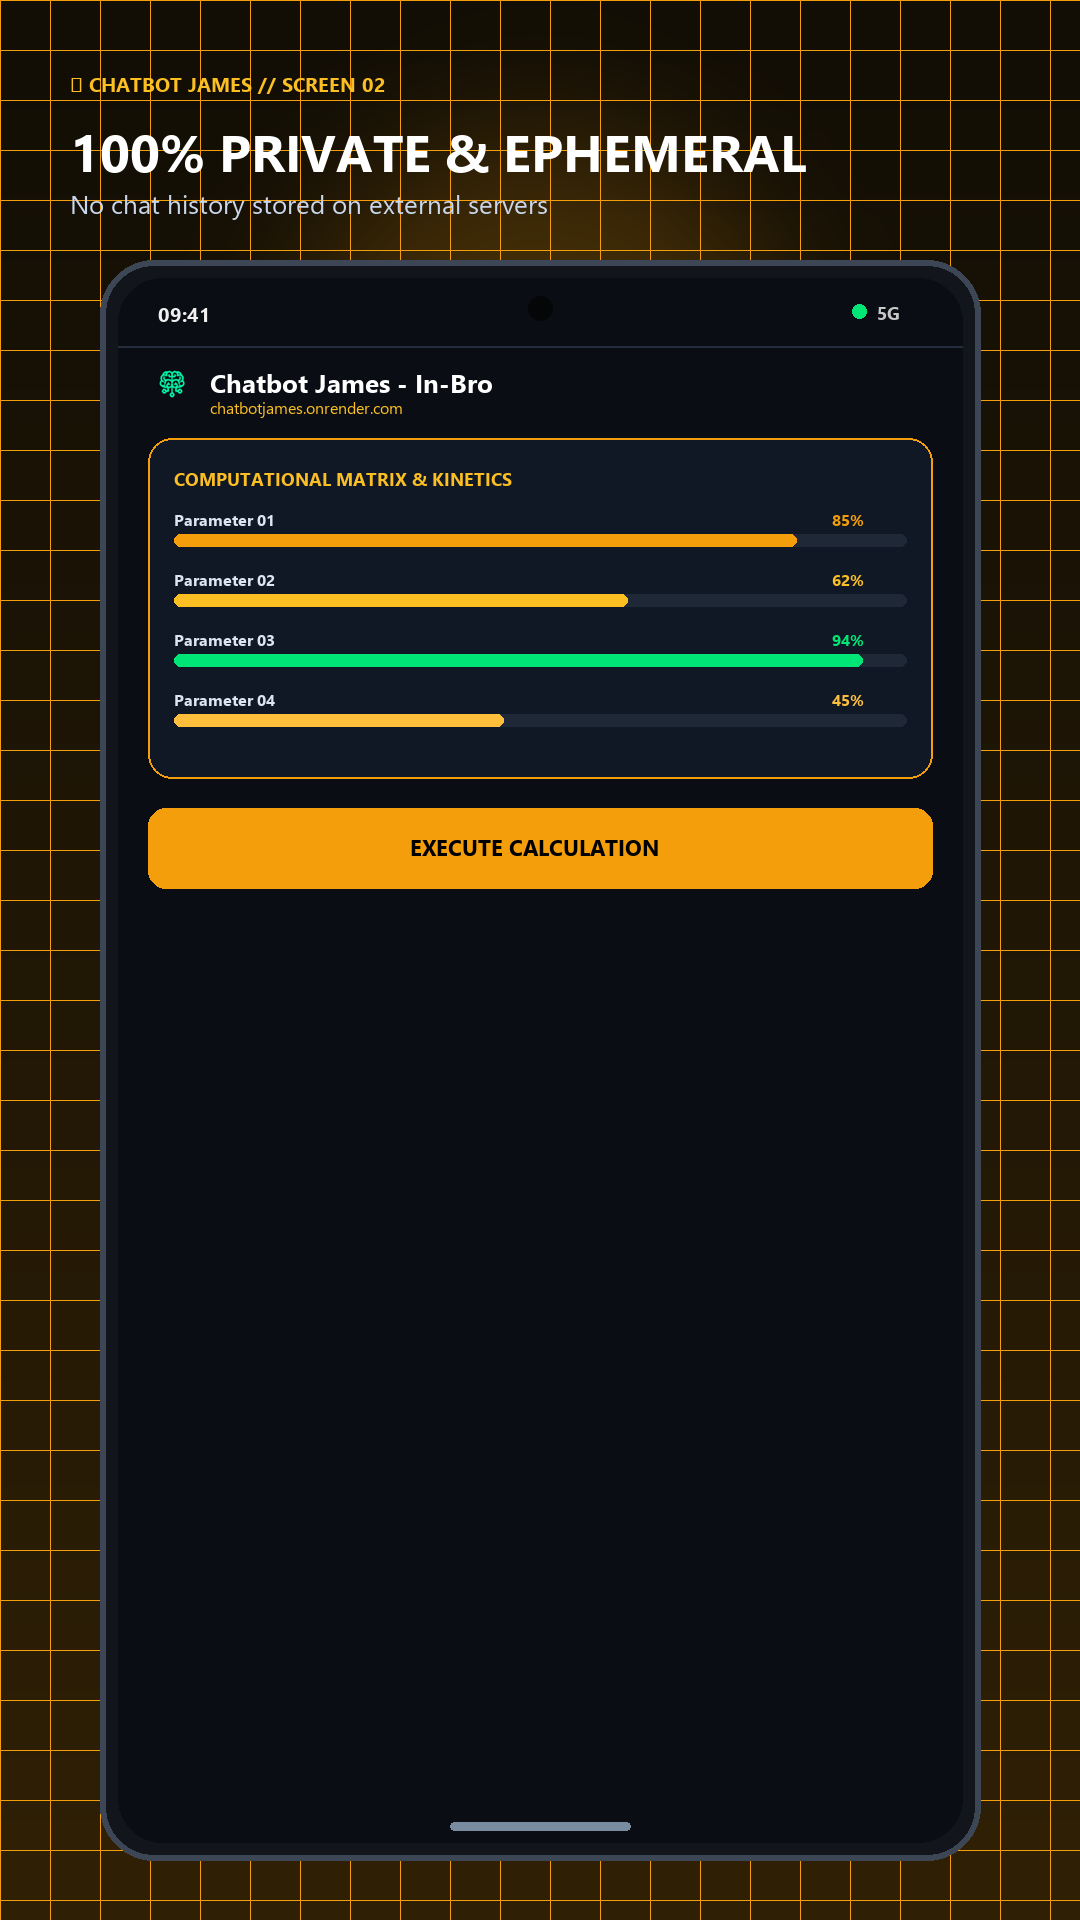
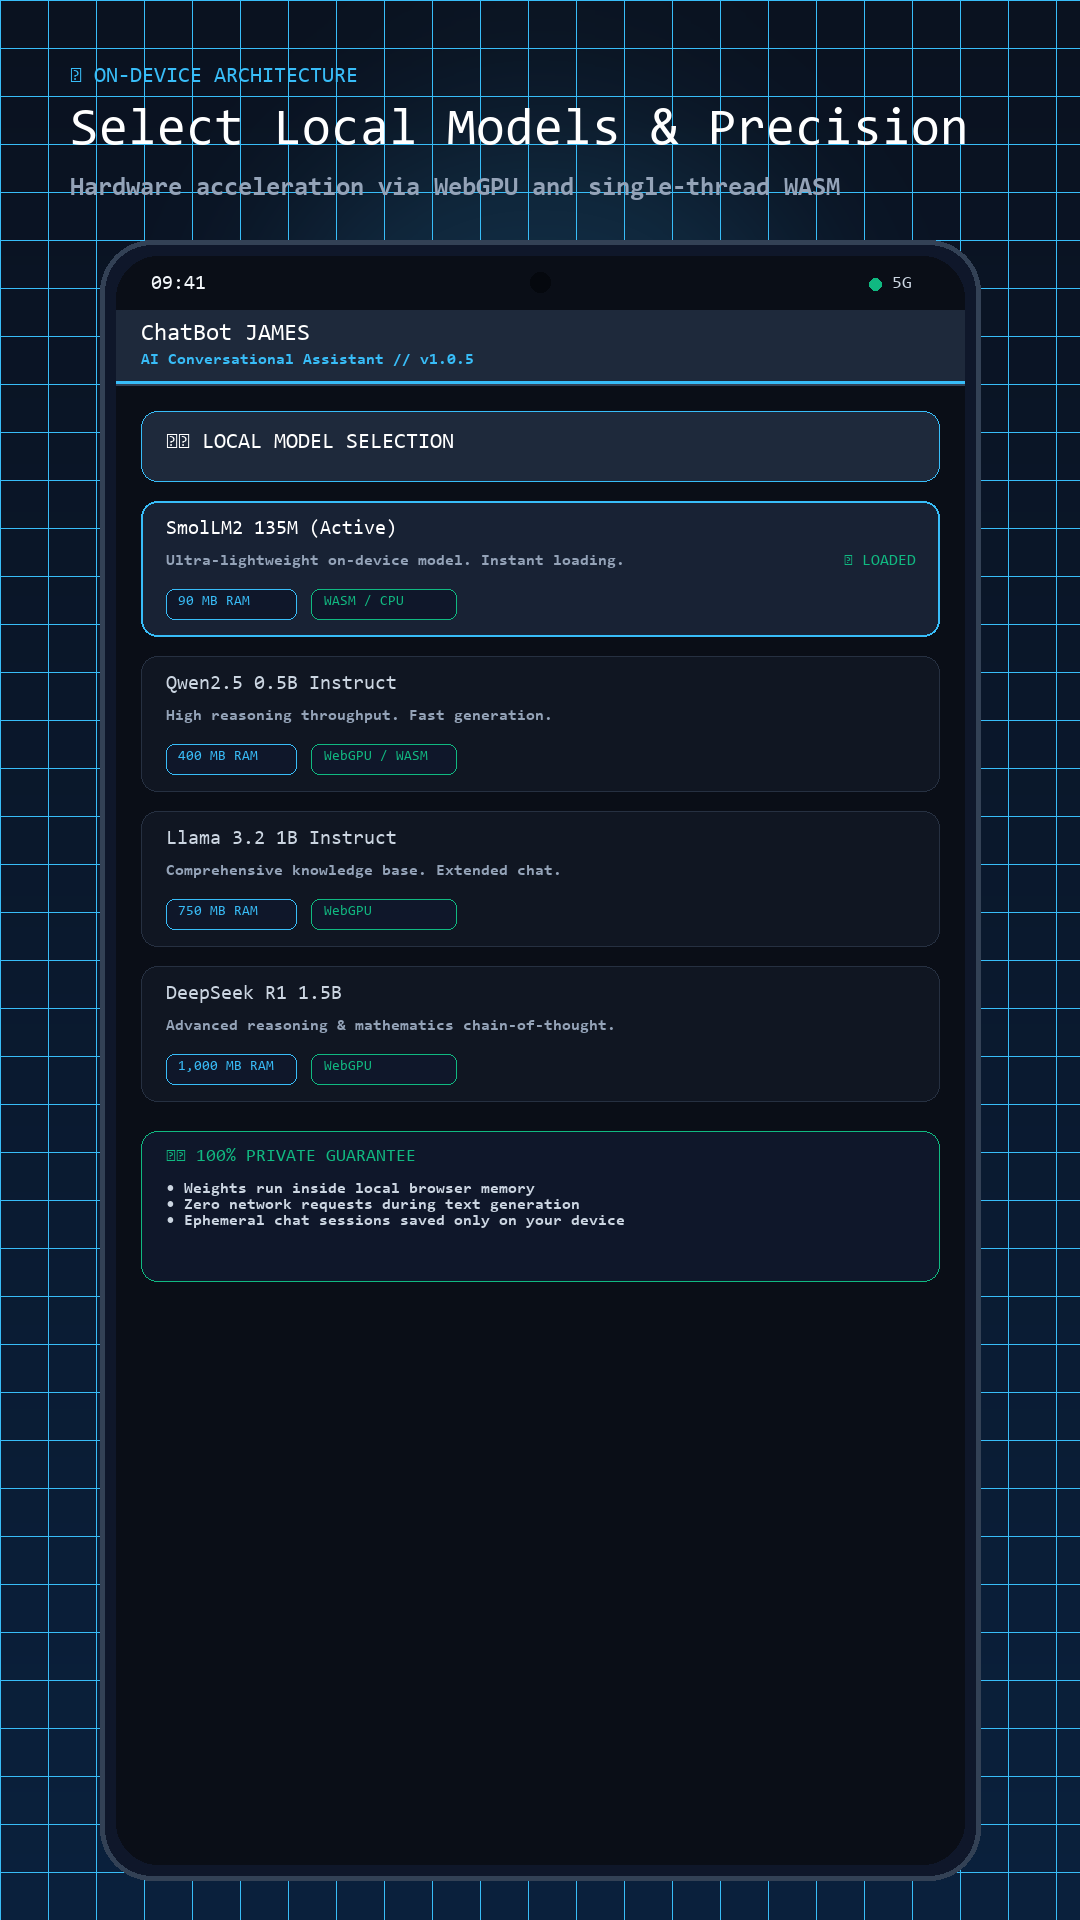
chore(assets): update play_store screenshots for v1.0.5

diff --git a/build.js b/build.js
@@ -1,1 +1,1 @@
-export const BUILD_NUMBER = 1181;
+export const BUILD_NUMBER = 1182;
